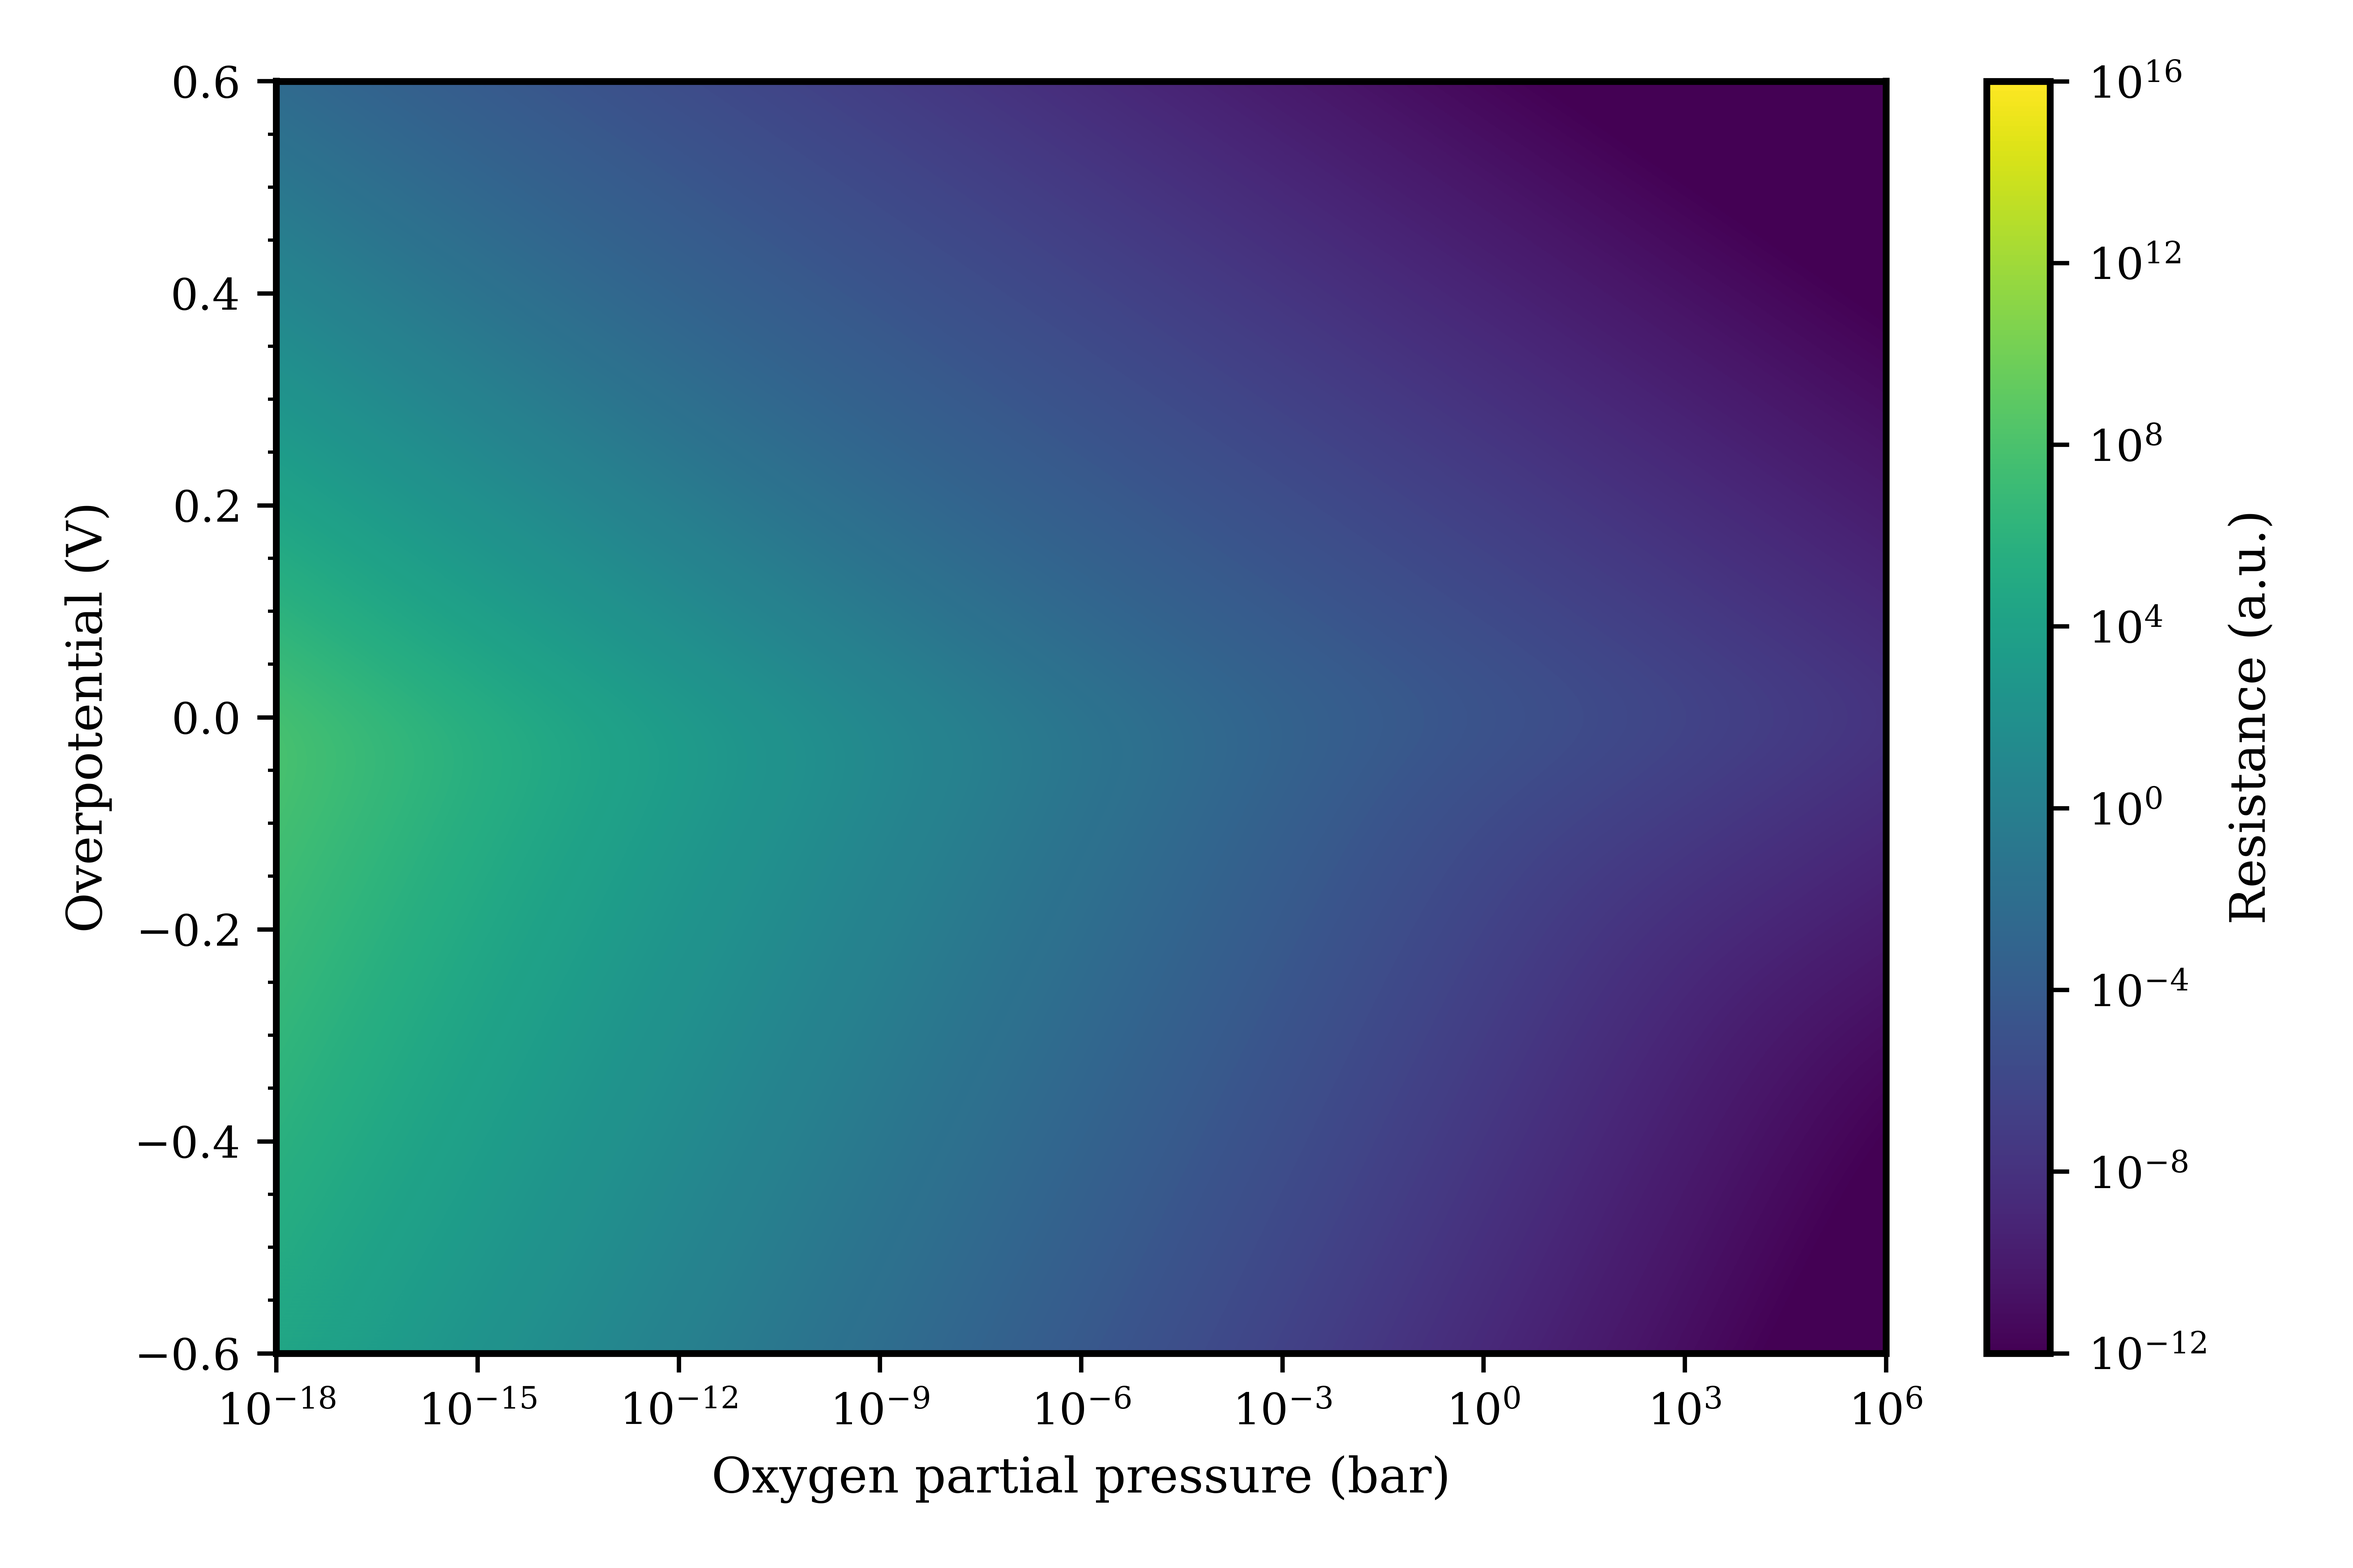
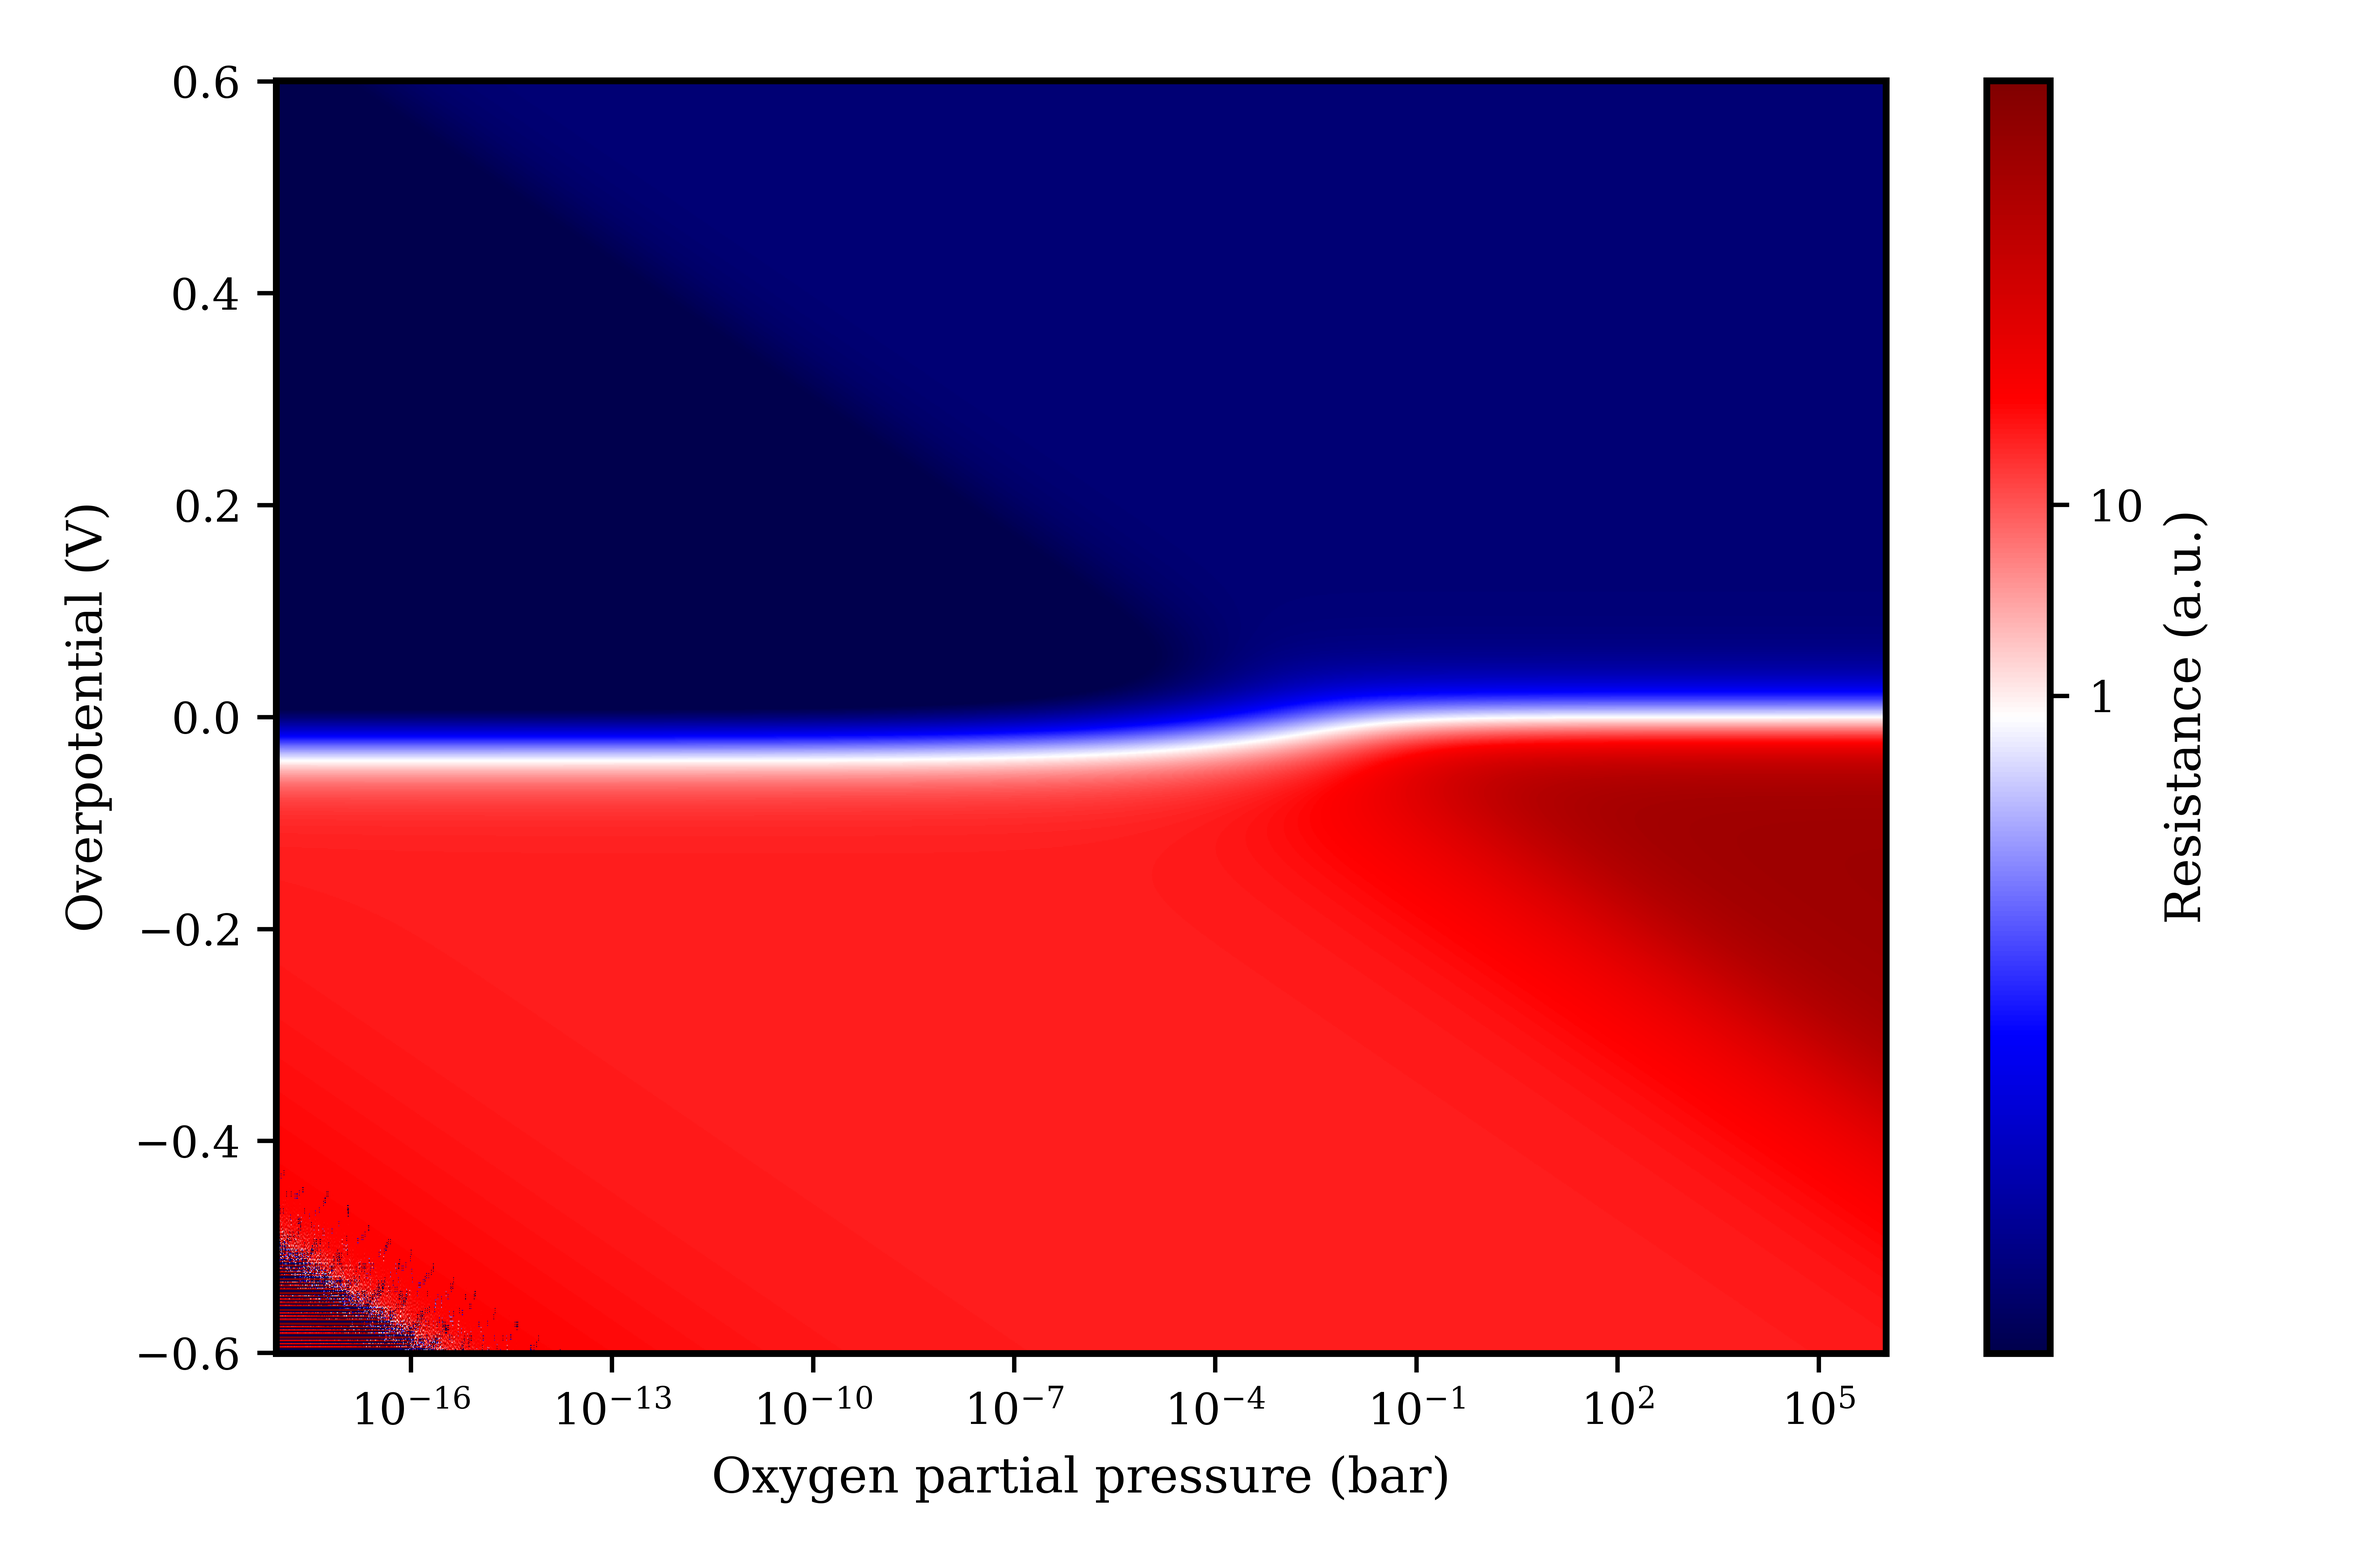
asdf

diff --git a/Currents_Resistances_Model_7/Slopes.py b/Currents_Resistances_Model_7/Slopes.py
@@ -1,11 +1,11 @@
-from numpy import load, zeros, dtype, save, gradient, log, nan
+from numpy import load, zeros, dtype, savetxt, gradient, log, nan, save
 
 # Load shifted Brouwer diagram
 current_data = load('Current_Data_Model_7.npy')
 
 # Create array for slope data
-datatype = dtype({'names': ['pressure', 'overpotential', 'oxygenpot', 'p_slope', 'n_slope', 'rp_slope', 'rn_slope'],
-                 'formats': ['float64', 'float64', 'float64', 'float64', 'float64', 'float64', 'float64']})
+datatype = dtype({'names': ['pressure', 'overpotential', 'p_slope', 'n_slope', 'rp_slope', 'rn_slope'],
+                 'formats': ['float64', 'float64', 'float64', 'float64', 'float64', 'float64']})
 
 slope_data = zeros(shape=current_data.shape, dtype=datatype)
 
@@ -19,6 +19,7 @@ slope_data['p_slope'] = gradient(log(abs(current_data['current'])), log(current_
 slope_data['n_slope'] = gradient(log(abs(current_data['current'])), current_data['overpotential'][:, 0], axis=0)
 
 slope_data['rp_slope'] = gradient(log(current_data['resistance']), log(current_data['pressure'][0, :]), axis=1)
-slope_data['rn_slope'] = gradient(log(current_data['resistance']), abs(current_data['overpotential'][:, 0]), axis=0)
+slope_data['rn_slope'] = gradient(log(current_data['resistance']), current_data['overpotential'][:, 0], axis=0)
 
 save('Slope_Data_Model_7.npy', slope_data)
+savetxt('../CSVs/Slope_Data_Model_7.csv', slope_data.flatten(), header=','.join(name for name in datatype.names), fmt='%5.4e')

diff --git a/Currents_Resistances_Model_7/Currents.py b/Currents_Resistances_Model_7/Currents.py
@@ -1,4 +1,4 @@
-from numpy import load, zeros, dtype, save, gradient
+from numpy import load, zeros, dtype, save, gradient, savetxt
 
 # Load shifted Brouwer diagram
 defect_data = load('../Brouwer/Brouwer_Bias.npy')
@@ -14,9 +14,9 @@ fe = 1 - defect_data['holes'] - defect_data['electrons']
 fe_eq = 1 - defect_data['holes'][600, :] - defect_data['electrons'][600, :]
 
 # Create array for current data
-datatype = dtype({'names': ['pressure', 'overpotential', 'oxygenpot', 'vacancies', 'holes', 'electrons', 'ex_current',
+datatype = dtype({'names': ['pressure', 'overpotential', 'vacancies', 'holes', 'electrons', 'ex_current',
                             'current', 'resistance'],
-                 'formats': ['float64', 'float64', 'float64', 'float64', 'float64', 'float64', 'float64', 'float64',
+                 'formats': ['float64', 'float64', 'float64', 'float64', 'float64', 'float64', 'float64',
                              'float64']})
 
 current_data = zeros(shape=defect_data.shape, dtype=datatype)
@@ -36,3 +36,4 @@ current_data['current'] = current_data['ex_current'] * \
 current_data['resistance'] = 1/gradient(current_data['current'], current_data['overpotential'][:, 0], axis=0)
 
 save('Current_Data_Model_7.npy', current_data)
+savetxt('../CSVs/Current_Data_Model_7.csv', current_data.flatten(), header=','.join(name for name in datatype.names), fmt='%5.4e')

diff --git a/Currents_Resistances_Model_8/Currents.py b/Currents_Resistances_Model_8/Currents.py
@@ -1,4 +1,4 @@
-from numpy import load, zeros, dtype, save, gradient
+from numpy import load, zeros, dtype, save, gradient, savetxt
 
 # Load shifted Brouwer diagram
 defect_data = load('../Brouwer/Brouwer_Bias.npy')
@@ -14,9 +14,9 @@ fe = 1 - defect_data['holes'] - defect_data['electrons']
 fe_eq = 1 - defect_data['holes'][600, :] - defect_data['electrons'][600, :]
 
 # Create array for current data
-datatype = dtype({'names': ['pressure', 'overpotential', 'oxygenpot', 'vacancies', 'holes', 'electrons', 'ex_current',
+datatype = dtype({'names': ['pressure', 'overpotential', 'vacancies', 'holes', 'electrons', 'ex_current',
                             'current', 'resistance'],
-                 'formats': ['float64', 'float64', 'float64', 'float64', 'float64', 'float64', 'float64', 'float64',
+                 'formats': ['float64', 'float64', 'float64', 'float64', 'float64', 'float64', 'float64',
                              'float64']})
 
 current_data = zeros(shape=defect_data.shape, dtype=datatype)
@@ -38,3 +38,4 @@ current_data['current'] = current_data['ex_current'] * \
 current_data['resistance'] = 1/gradient(current_data['current'], current_data['overpotential'][:, 0], axis=0)
 
 save('Current_Data_Model_8.npy', current_data)
+savetxt('../CSVs/Current_Data_Model_8.csv', current_data.flatten(), header=','.join(name for name in datatype.names), fmt='%5.4e')

diff --git a/Currents_Resistances_Model_8/Slopes.py b/Currents_Resistances_Model_8/Slopes.py
@@ -1,11 +1,11 @@
-from numpy import load, zeros, dtype, save, gradient, log, nan
+from numpy import load, zeros, dtype, save, gradient, log, nan, savetxt
 
 # Load shifted Brouwer diagram
 current_data = load('Current_Data_Model_8.npy')
 
 # Create array for slope data
-datatype = dtype({'names': ['pressure', 'overpotential', 'oxygenpot', 'p_slope', 'n_slope', 'rp_slope', 'rn_slope'],
-                 'formats': ['float64', 'float64', 'float64', 'float64', 'float64', 'float64', 'float64']})
+datatype = dtype({'names': ['pressure', 'overpotential', 'p_slope', 'n_slope', 'rp_slope', 'rn_slope'],
+                 'formats': ['float64', 'float64', 'float64', 'float64', 'float64', 'float64']})
 
 slope_data = zeros(shape=current_data.shape, dtype=datatype)
 
@@ -22,3 +22,4 @@ slope_data['rp_slope'] = gradient(log(current_data['resistance']), log(current_d
 slope_data['rn_slope'] = gradient(log(current_data['resistance']), abs(current_data['overpotential'][:, 0]), axis=0)
 
 save('Slope_Data_Model_8.npy', slope_data)
+savetxt('../CSVs/Slope_Data_Model_8.csv', slope_data.flatten(), header=','.join(name for name in datatype.names), fmt='%5.4e')

diff --git a/Brouwer/Brouwer_Bias_Shifted.py b/Brouwer/Brouwer_Bias_Shifted.py
@@ -1,9 +1,9 @@
-from numpy import zeros, logspace, linspace, dtype, meshgrid, save
+from numpy import zeros, logspace, linspace, dtype, meshgrid, savetxt, save
 from ASC_Solver import arbitrary_solver
 
 
-datatype = dtype({'names': ['pressure', 'overpotential', 'oxygenpot', 'vacancies', 'holes', 'electrons'],
-                 'formats': ['float64', 'float64', 'float64', 'float64', 'float64', 'float64']})
+datatype = dtype({'names': ['pressure', 'overpotential', 'vacancies', 'holes', 'electrons'],
+                 'formats': ['float64', 'float64', 'float64', 'float64', 'float64']})
 
 # Create Grid of overpotential and oxygen partial pressure
 shifted_defect_data = zeros(shape=(1201, 2401), dtype=datatype)
@@ -28,3 +28,4 @@ for eta_idx, eta in enumerate(shifted_defect_data):
         shifted_defect_data[eta_idx, p_idx]['electrons'] = result[2]
 
 save('Brouwer_Bias_Shifted.npy', shifted_defect_data)
+savetxt('../CSVs/Brouwer_Bias_Shifted.csv', shifted_defect_data.flatten(), header=','.join(name for name in datatype.names), fmt='%5.4e')

diff --git a/Plots/Showplots/Model_7/Resistance.py b/Plots/Showplots/Model_7/Resistance.py
@@ -7,9 +7,9 @@ from matplotlib.ticker import SymmetricalLogLocator, LogLocator
 
 use('../Show.mplstyle')
 
-data = load('../../../Currents_Resistances_Model_7/Current_Data_Model_7.npy')
+data = load('../../../Currents_Resistances_Model_7/Slope_Data_Model_7.npy')
 
-abs_current_den = masked_equal(abs(data['current']), 0)
+#abs_current_den = masked_equal(abs(data['current']), 0)
 
 fig, ax = subplots(figsize=(6, 4))
 
@@ -17,8 +17,8 @@ ax.set_xscale('log')
 ax.set_xlabel('Oxygen partial pressure (bar)')
 ax.set_ylabel('Overpotential (V)')
 
-colmesh = ax.pcolormesh(data['pressure'], data['overpotential'], data['resistance'],
-                        norm=LogNorm(vmin=1e-12, vmax=1e16))
+colmesh = ax.pcolormesh(data['pressure'], data['overpotential'], data['rn_slope'], vmin=-30, vmax=30, shading='auto',
+                        cmap='seismic')
 
 cbar = fig.colorbar(colmesh, ax=ax, ticks=LogLocator(numticks=8), label='Resistance (a.u.)')
 cbar.ax.minorticks_off()

diff --git a/Brouwer/Brouwer_Bias.py b/Brouwer/Brouwer_Bias.py
@@ -1,8 +1,8 @@
-from numpy import zeros, logspace, linspace, dtype, meshgrid, save
+from numpy import zeros, logspace, linspace, dtype, meshgrid, savetxt, save
 from ASC_Solver import arbitrary_solver
 
 
-datatype = dtype({'names': ['pressure', 'overpotential', 'oxygenpot', 'vacancies', 'holes', 'electrons'],
+datatype = dtype({'names': ['pressure', 'overpotential', 'vacancies', 'holes', 'electrons'],
                  'formats': ['float64', 'float64', 'float64', 'float64', 'float64', 'float64']})
 
 # Create Grid of overpotential and oxygen partial pressure
@@ -27,3 +27,4 @@ for eta_idx, eta in enumerate(defect_data):
         defect_data[eta_idx, p_idx]['electrons'] = result[2]
 
 save('Brouwer_Bias.npy', defect_data)
+savetxt('../CSVs/Brouwer_Bias.csv', defect_data.flatten(), header=','.join(name for name in datatype.names), fmt='%5.4e')

diff --git a/Plots/Showplots/Brouwer/Brouwer_2D.py b/Plots/Showplots/Brouwer/Brouwer_2D.py
@@ -1,7 +1,7 @@
 from matplotlib.colors import LogNorm
 from matplotlib.pyplot import subplots, show
 from matplotlib.style import use
-from numpy import load
+from numpy import load, gradient
 
 use('../Show.mplstyle')
 
